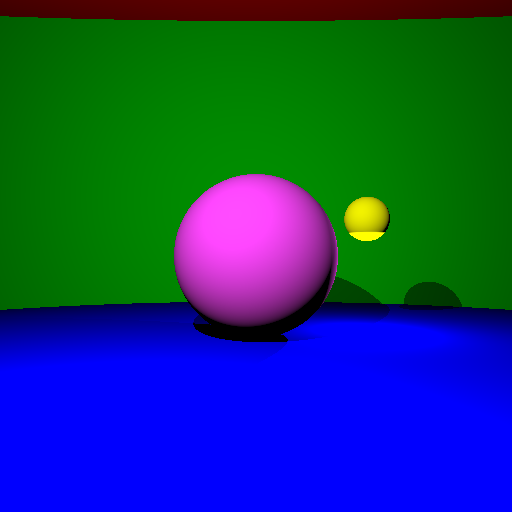
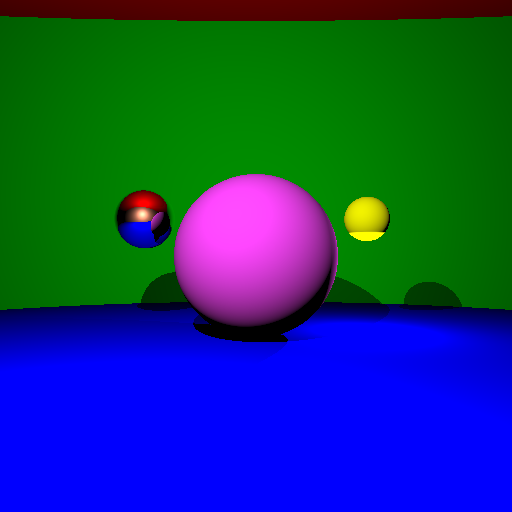
mirror display (not lightning)

Changed region(s): [[0.2188, 0.375, 0.3438, 0.5], [0.25, 0.5312, 0.375, 0.625]]

diff --git a/main.cpp b/main.cpp
@@ -80,11 +80,16 @@ public:
     double radius;
     Vector albedo;
     bool mirror;
-    explicit Sphere(Vector o, double R, Vector c, bool mirror = false){
+    explicit Sphere(Vector o, double R, Vector c){
         origin = o;
         radius = R;
         albedo = c;
-        mirror = mirror;
+        if (c.data[0] == -1){
+            mirror = true;
+        }
+        else{
+            mirror = false;
+        }
     }
     Intersection intersect(Ray &r){
         Vector omc = r.origin - origin;
@@ -154,12 +159,16 @@ Vector get_color(std::vector<Sphere> Scene, std::vector<Light> Lights, Ray pr){
     Vector color;
     Cast cast = scene_intersect(Scene, pr);
     if (cast.intersect.flag == true){
-        Vector albedo = (*cast.sphere).albedo;
         Vector sphere_normal = cast.intersect.position - (*cast.sphere).origin;
         sphere_normal.normalize();
+        Vector epsilon_above = cast.intersect.position + sphere_normal/100000;
+        if (cast.sphere->mirror){
+            return get_color(Scene, Lights, Ray(epsilon_above, pr.unit - 2 * dot(pr.unit, sphere_normal) * sphere_normal));
+        }
+        Vector albedo = (*cast.sphere).albedo;
+
         for (int k=0; k<Lights.size(); k++){
             // First test if there is a shadow
-            Vector epsilon_above = cast.intersect.position + sphere_normal/100000;
             Vector to_shadow = Lights[k].position - epsilon_above;
             Ray shadow_ray = Ray(epsilon_above, to_shadow);
             Cast shadow_intersection = scene_intersect(Scene, shadow_ray);
@@ -174,12 +183,15 @@ Vector get_color(std::vector<Sphere> Scene, std::vector<Light> Lights, Ray pr){
 }
 
 int main(){
-    std::vector<Sphere> Scene{  Sphere(Vector(0,0,0), 10, Vector(170, 10, 170)),
-                                Sphere(Vector(0, 1000, 0), 940, Vector(255, 0, 0)),
-                                Sphere(Vector(0, 0, -1000), 940, Vector(0, 255, 0)),
-                                Sphere(Vector(0, -1000, 0), 990, Vector(0, 0, 255)),
-                                Sphere(Vector(0, 0, 1000), 940, Vector(132, 46, 27)),
-                                Sphere(Vector(15, 5, -5), 3, Vector(255, 255, 0))};
+    Vector mirror_vect = Vector(-1, -1, -1);
+    std::vector<Sphere> Scene{  Sphere(Vector(0,0,0), 10, Vector(170, 10, 170)),        // center ball
+                                Sphere(Vector(0, 1000, 0), 940, Vector(255, 0, 0)),     // top red
+                                Sphere(Vector(0, 0, -1000), 940, Vector(0, 255, 0)),    // end green
+                                Sphere(Vector(0, -1000, 0), 990, Vector(0, 0, 255)),    // bottom blue
+                                Sphere(Vector(0, 0, 1000), 940, Vector(132, 46, 27)),   // back brown
+                                Sphere(Vector(15, 5, -5), 3, Vector(255, 255, 0)),      // small yellow
+                                Sphere(Vector(-15, 5, -5), 4, mirror_vect)              // left mirror
+                                };
     std::vector<Light> Lights{{Vector(-10, 20, 40), 7*10000000}, {Vector(15, 0, -5), 6*1000000}};
     
 
